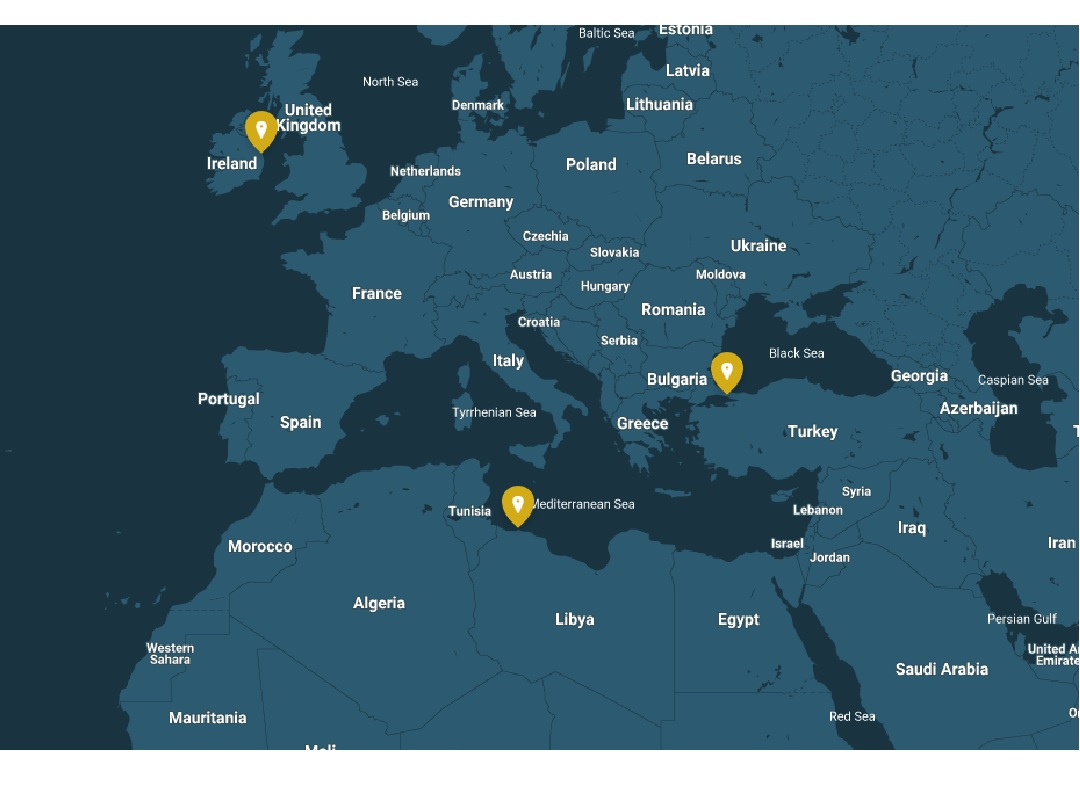
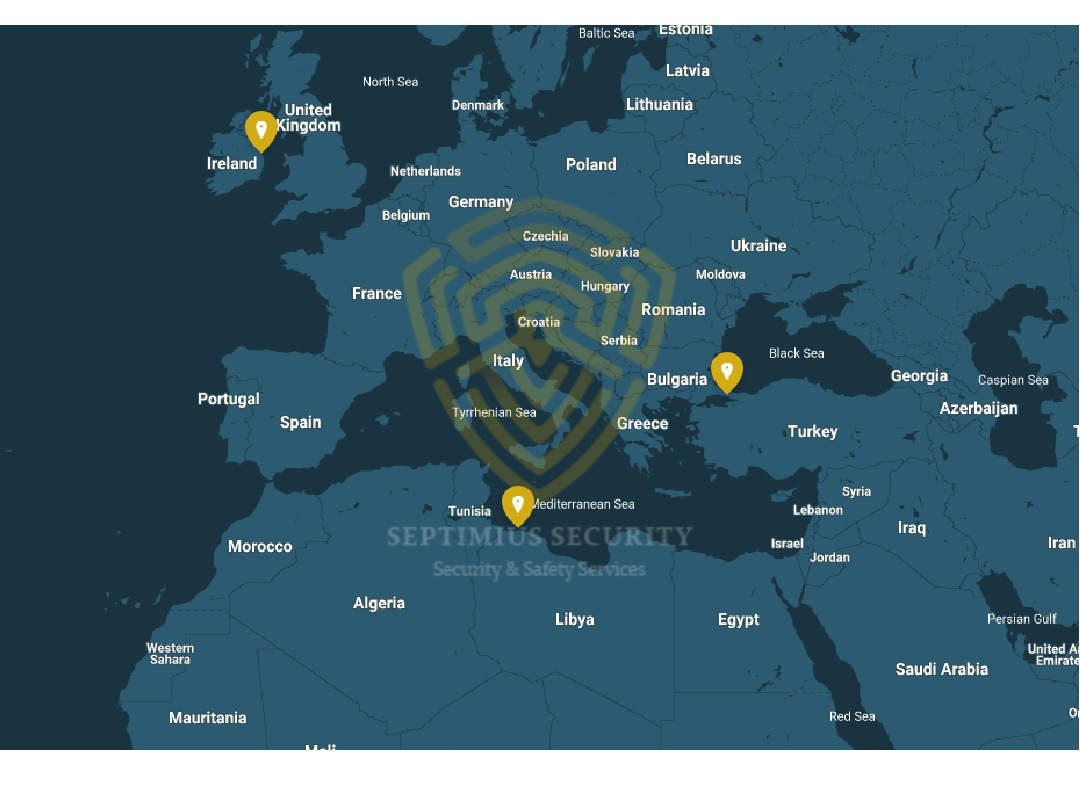
added watermarker

Changed region(s): [[0.3667, 0.2497, 0.6417, 0.6242], [0.3667, 0.6554, 0.6417, 0.7179]]

diff --git a/about.html b/about.html
@@ -247,7 +247,7 @@
               <h2 class="ui-title-inner-1 asas">Our Clients</h2>
               <p>Confidentiality is key and is important to all our clients. SEPTIMIUS SECURITY doesn’t identify clients as a matter of course, unless given consent. Our clients include national, international and global businesses in several sectors, government departments and multilateral organizations from many parts of the world with an increasing number of NGO’s.</p>
             </div>
-            <div class="col-sm-6"><img src="Septimius Images/1.JPG" alt="Foto" class="img-responsive"></div>
+            <div class="col-sm-6"><img src="Septimius Images/all-logos.jpg" alt="Foto" class="img-responsive"></div>
           </div>
         </div>
       </section>
